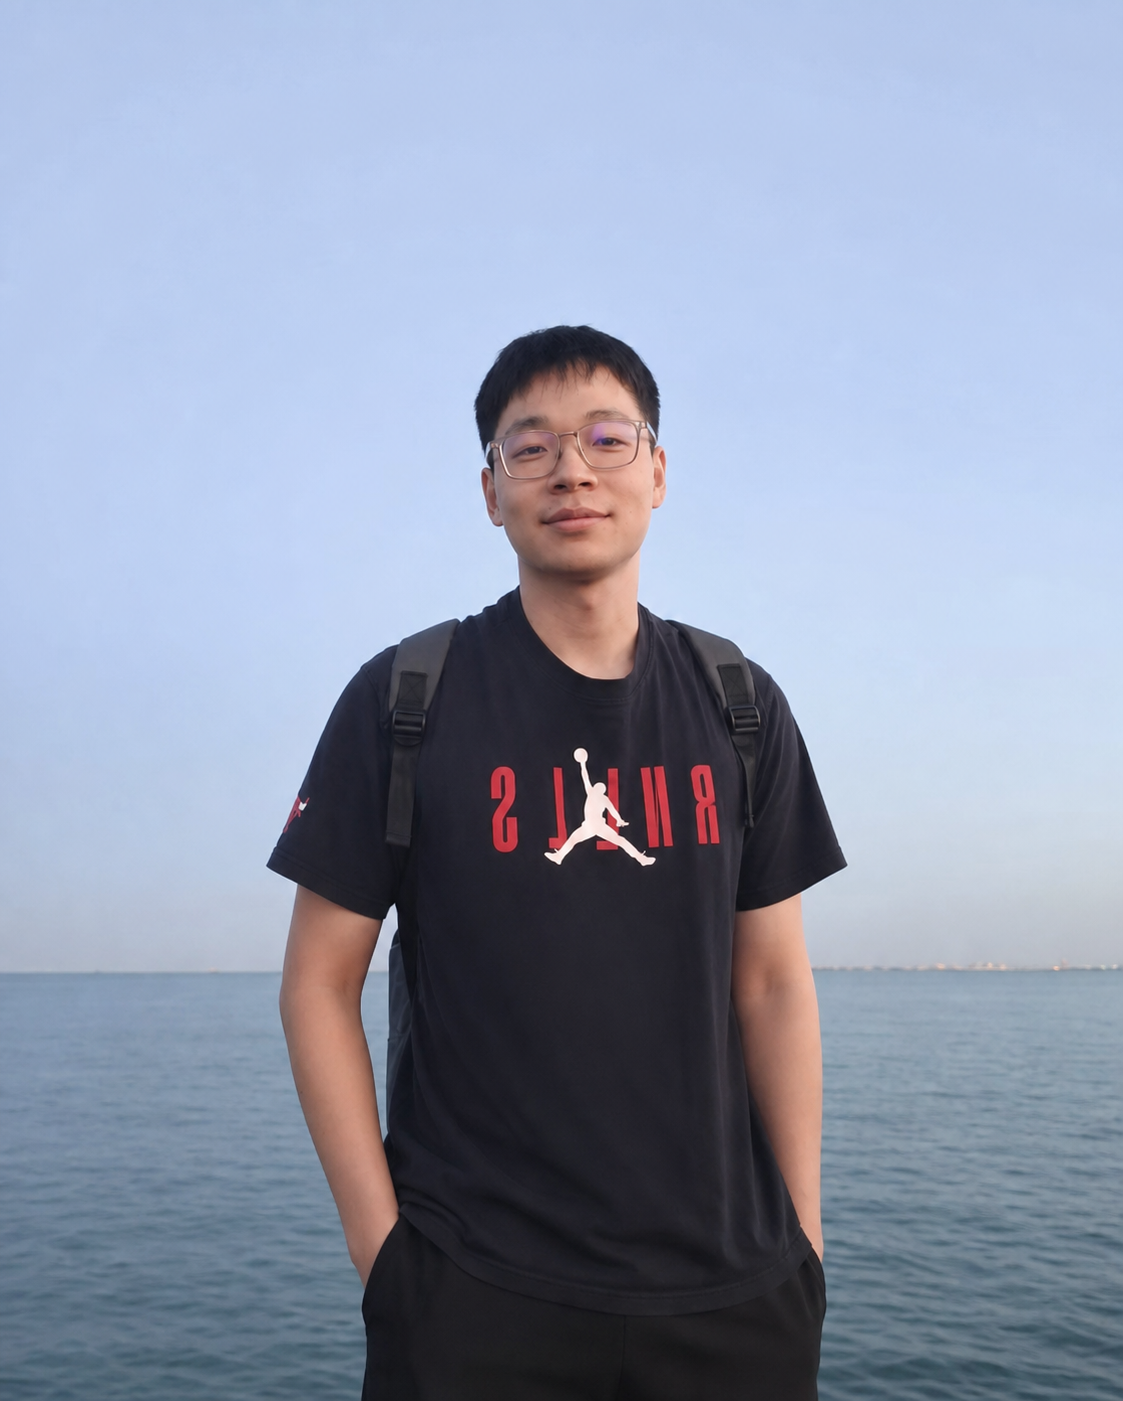
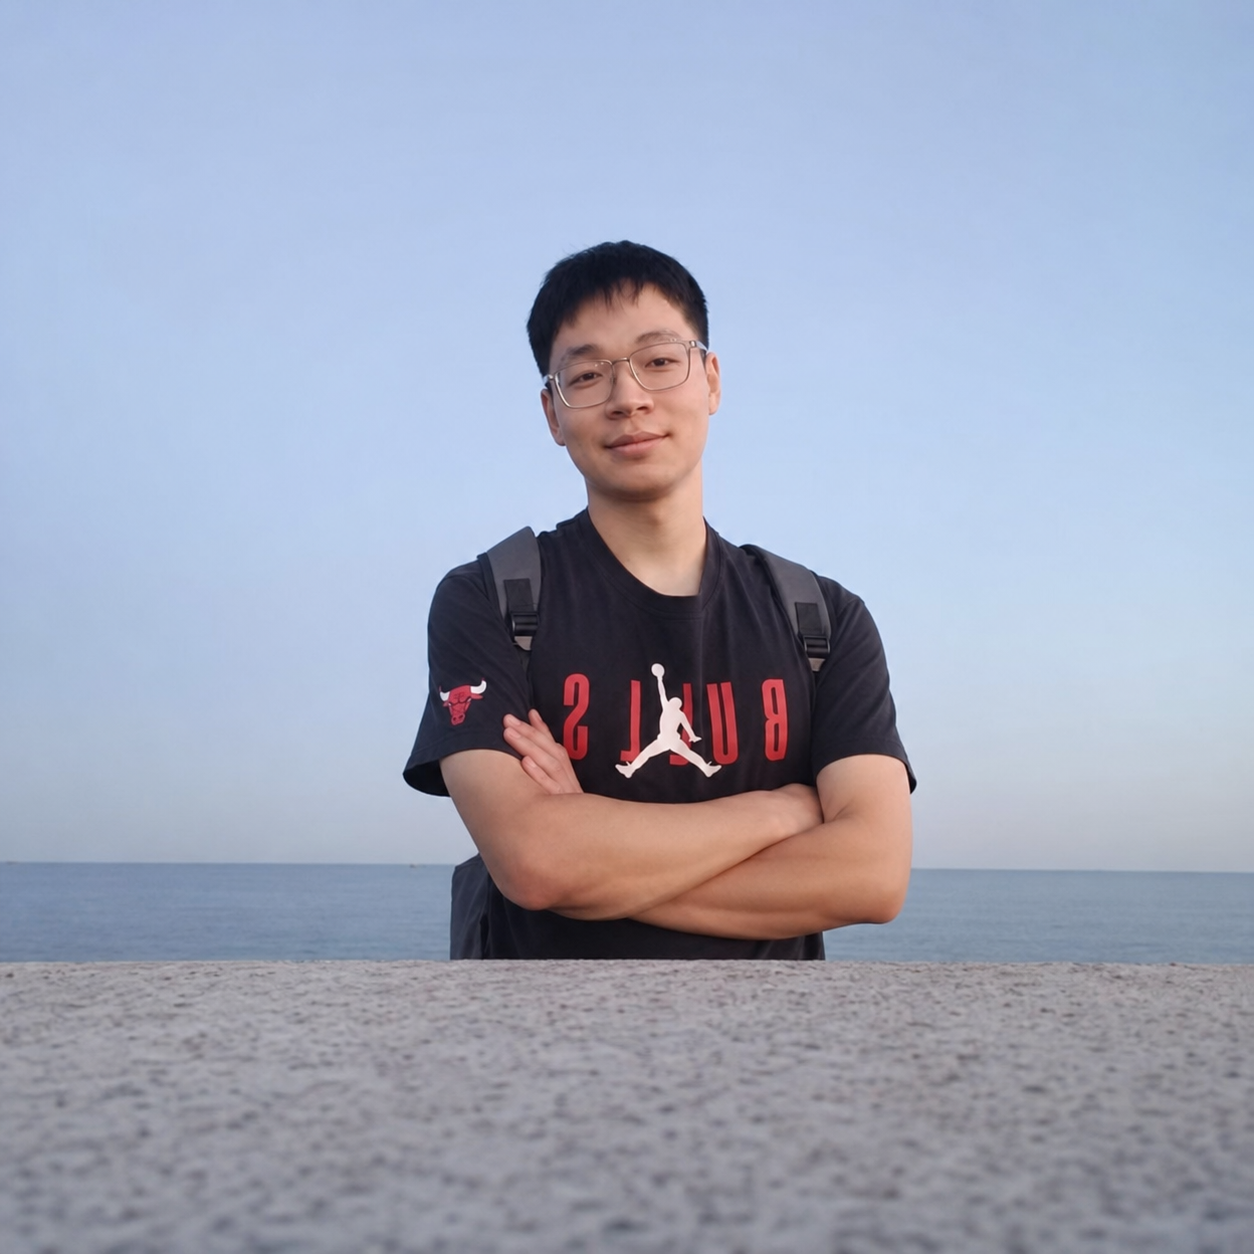
Update portrait, EgoPriMo teaser, and reviewing service

diff --git a/index.html b/index.html
@@ -4,7 +4,7 @@
     <meta charset="UTF-8" />
     <meta name="viewport" content="width=device-width, initial-scale=1.0" />
     <title>Haoyang Ge — Academic Homepage</title>
-    <script type="module" crossorigin src="./index-BxOouB93.js"></script>
+    <script type="module" crossorigin src="./index-DOdhlCBx.js"></script>
     <link rel="stylesheet" crossorigin href="./index-D5gpqwE9.css" />
   </head>
   <body>